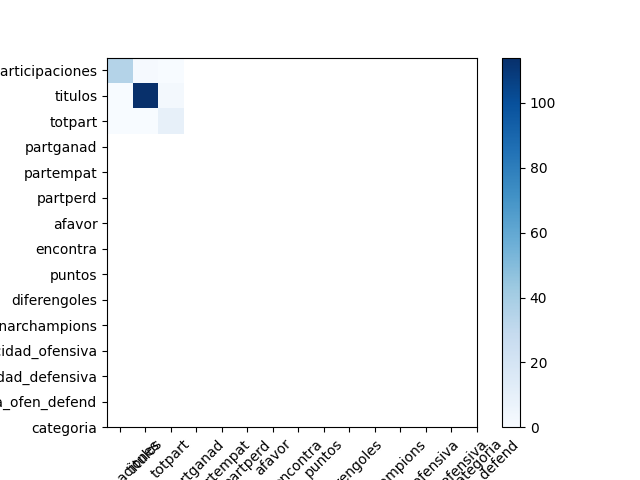
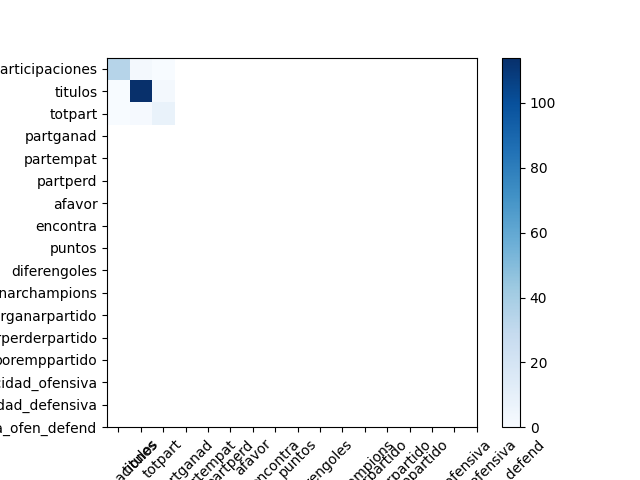
suuuu, alegría, funciona

Changed region(s): [[0.0, 0.125, 0.1562, 0.9062], [0.1875, 0.9062, 0.8438, 1.0], [0.1562, 0.125, 0.25, 0.25]]

diff --git a/neuronas/dnn/clasificar/entrenar_dnn.py b/neuronas/dnn/clasificar/entrenar_dnn.py
@@ -17,18 +17,18 @@ from matplotlib import pyplot as plt
 
 #definimos la red neuronal
 class RedNeuronal(nn.Module):
-    def __init__(self):
+    def __init__(self, entrada, hl):
         super(RedNeuronal, self).__init__()#se inicializa la clase padre
         
         #se define la capa de entrada que toma como entrada la cantidad de nodos (los valores de entrada)
         #y produce una salida de hl nodos
-        self.fc1 = nn.Linear(x_train.shape[1], hl) 
+        self.fc1 = nn.Linear(entrada, hl) 
         
         #se define la segunda capa oculta con hl nodos y produce una salida de hl nodos
         self.fc2 = nn.Linear(hl, hl)
         
         #se define la capa de salida con hl nodos y produce una salida de 3 nodos
-        self.fc3 = nn.Linear(hl, x_train.shape[1])
+        self.fc3 = nn.Linear(hl, entrada)
 
     def forward(self, x):
         #indica cómo van a ser procesados los datos de entrada
@@ -152,7 +152,6 @@ if __name__ == '__main__':
     
     #Separamos los datos en train y test
     x = df_equipos.drop(['categoria'], axis=1)
-    print(x.columns)
     y = df_equipos['categoria']
 
     x_train, x_test, y_train, y_test = train_test_split(x, y, test_size=0.3, random_state=0)
@@ -177,9 +176,10 @@ if __name__ == '__main__':
 
     #definimos el número de nodos en cada capa oculta
     hl = 10
+    entrada = x_train.shape[1]
 
 #creamos una instancia de la red neuronal
-    model = RedNeuronal()
+    model = RedNeuronal(entrada, hl)
     print('Red Neuronal creada\n', model)
     
     #epoch o épocas son cada pasada completa por el conjunto de datos de entrenamiento
@@ -245,22 +245,7 @@ if __name__ == '__main__':
     del model
     print('Modelo guardado en', modelo_ruta)
    
-#cargamos el modelo
-    #cogemos los datos a clasificar
-    df = pd.read_csv('csvs/datos_fut.csv', delimiter=';', encoding='utf-8')
-    x_nuevos = df.drop(['club', 'pais'], axis=1)
-    #Dejamos solo las 5 primeras filas
-    x_nuevos = x_nuevos.head(5)
-    
-    #cargamos el modelo
-    model = RedNeuronal()
-    model.load_state_dict(torch.load(modelo_ruta))
-    model.eval()
-    
-    #hacemos las predicciones
-    x = torch.Tensor(x_nuevos.values).float()
-    _, predicted = torch.max(model(x).data, 1)
-    print('Predicciones:\n',predicted)
+
 
     
 

diff --git a/neuronas/dnn/clasificar/cargar_dat.py b/neuronas/dnn/clasificar/cargar_dat.py
@@ -1,23 +1,26 @@
 import pandas as pd
-import numpy as np
 import torch
-from neurona_profunda import RedNeuronal
+from entrenar_dnn import RedNeuronal
 import os
-from sklearn.model_selection import train_test_split
 
-'''#cargamos el modelo
+
+
+
+
+
+
+#cargamos el modelo
 #cogemos los datos a clasificar
 df = pd.read_csv('csvs/datos_fut.csv', delimiter=';', encoding='utf-8')
-df = df.drop(['club', 'pais'], axis=1)
-df_equipos = pd.read_csv('csvs/datos_fut.csv', delimiter=';', encoding='utf-8')
-x_nuevos = df_equipos.drop(['porganarpartido', 'porperderpartido', 'poremppartido'], axis=1)
+x_nuevos = df.drop(['club', 'pais'], axis=1)
 #Dejamos solo las 5 primeras filas
 x_nuevos = x_nuevos.head(5)
 
 hl = 10
-x_train = 15
+entrada = x_nuevos.shape[1]
+
 #cargamos el modelo
-model = RedNeuronal()
+model = RedNeuronal(entrada, hl)
 modelo_ruta = os.path.join(os.path.dirname(__file__), 'modelo_red_neuronal_prof_uefa.pth')
 model.load_state_dict(torch.load(modelo_ruta))
 model.eval()
@@ -25,18 +28,4 @@ model.eval()
 #hacemos las predicciones
 x = torch.Tensor(x_nuevos.values).float()
 _, predicted = torch.max(model(x).data, 1)
-print('Predicciones:\n',predicted)'''
-
-df_equipos = pd.read_csv('csvs/datos_fut_clasificados.csv', delimiter=',', encoding='utf-8')
-df_equipos = df_equipos.drop(['club', 'pais'], axis=1)
-
-#Separamos los datos en train y test
-x = df_equipos.drop(['porganarpartido', 'porperderpartido', 'poremppartido'], axis=1)
-y = df_equipos['categoria']
-
-x_train, x_test, y_train, y_test = train_test_split(x, y, test_size=0.3, random_state=0)
-print(x_train.shape[1])
-
-df = pd.read_csv('csvs/datos_fut.csv', delimiter=';', encoding='utf-8')
-x_nuevos = df.drop(['club', 'pais'], axis=1)
-print(x_nuevos.shape[1])
+print('Predicciones:\n',predicted)
